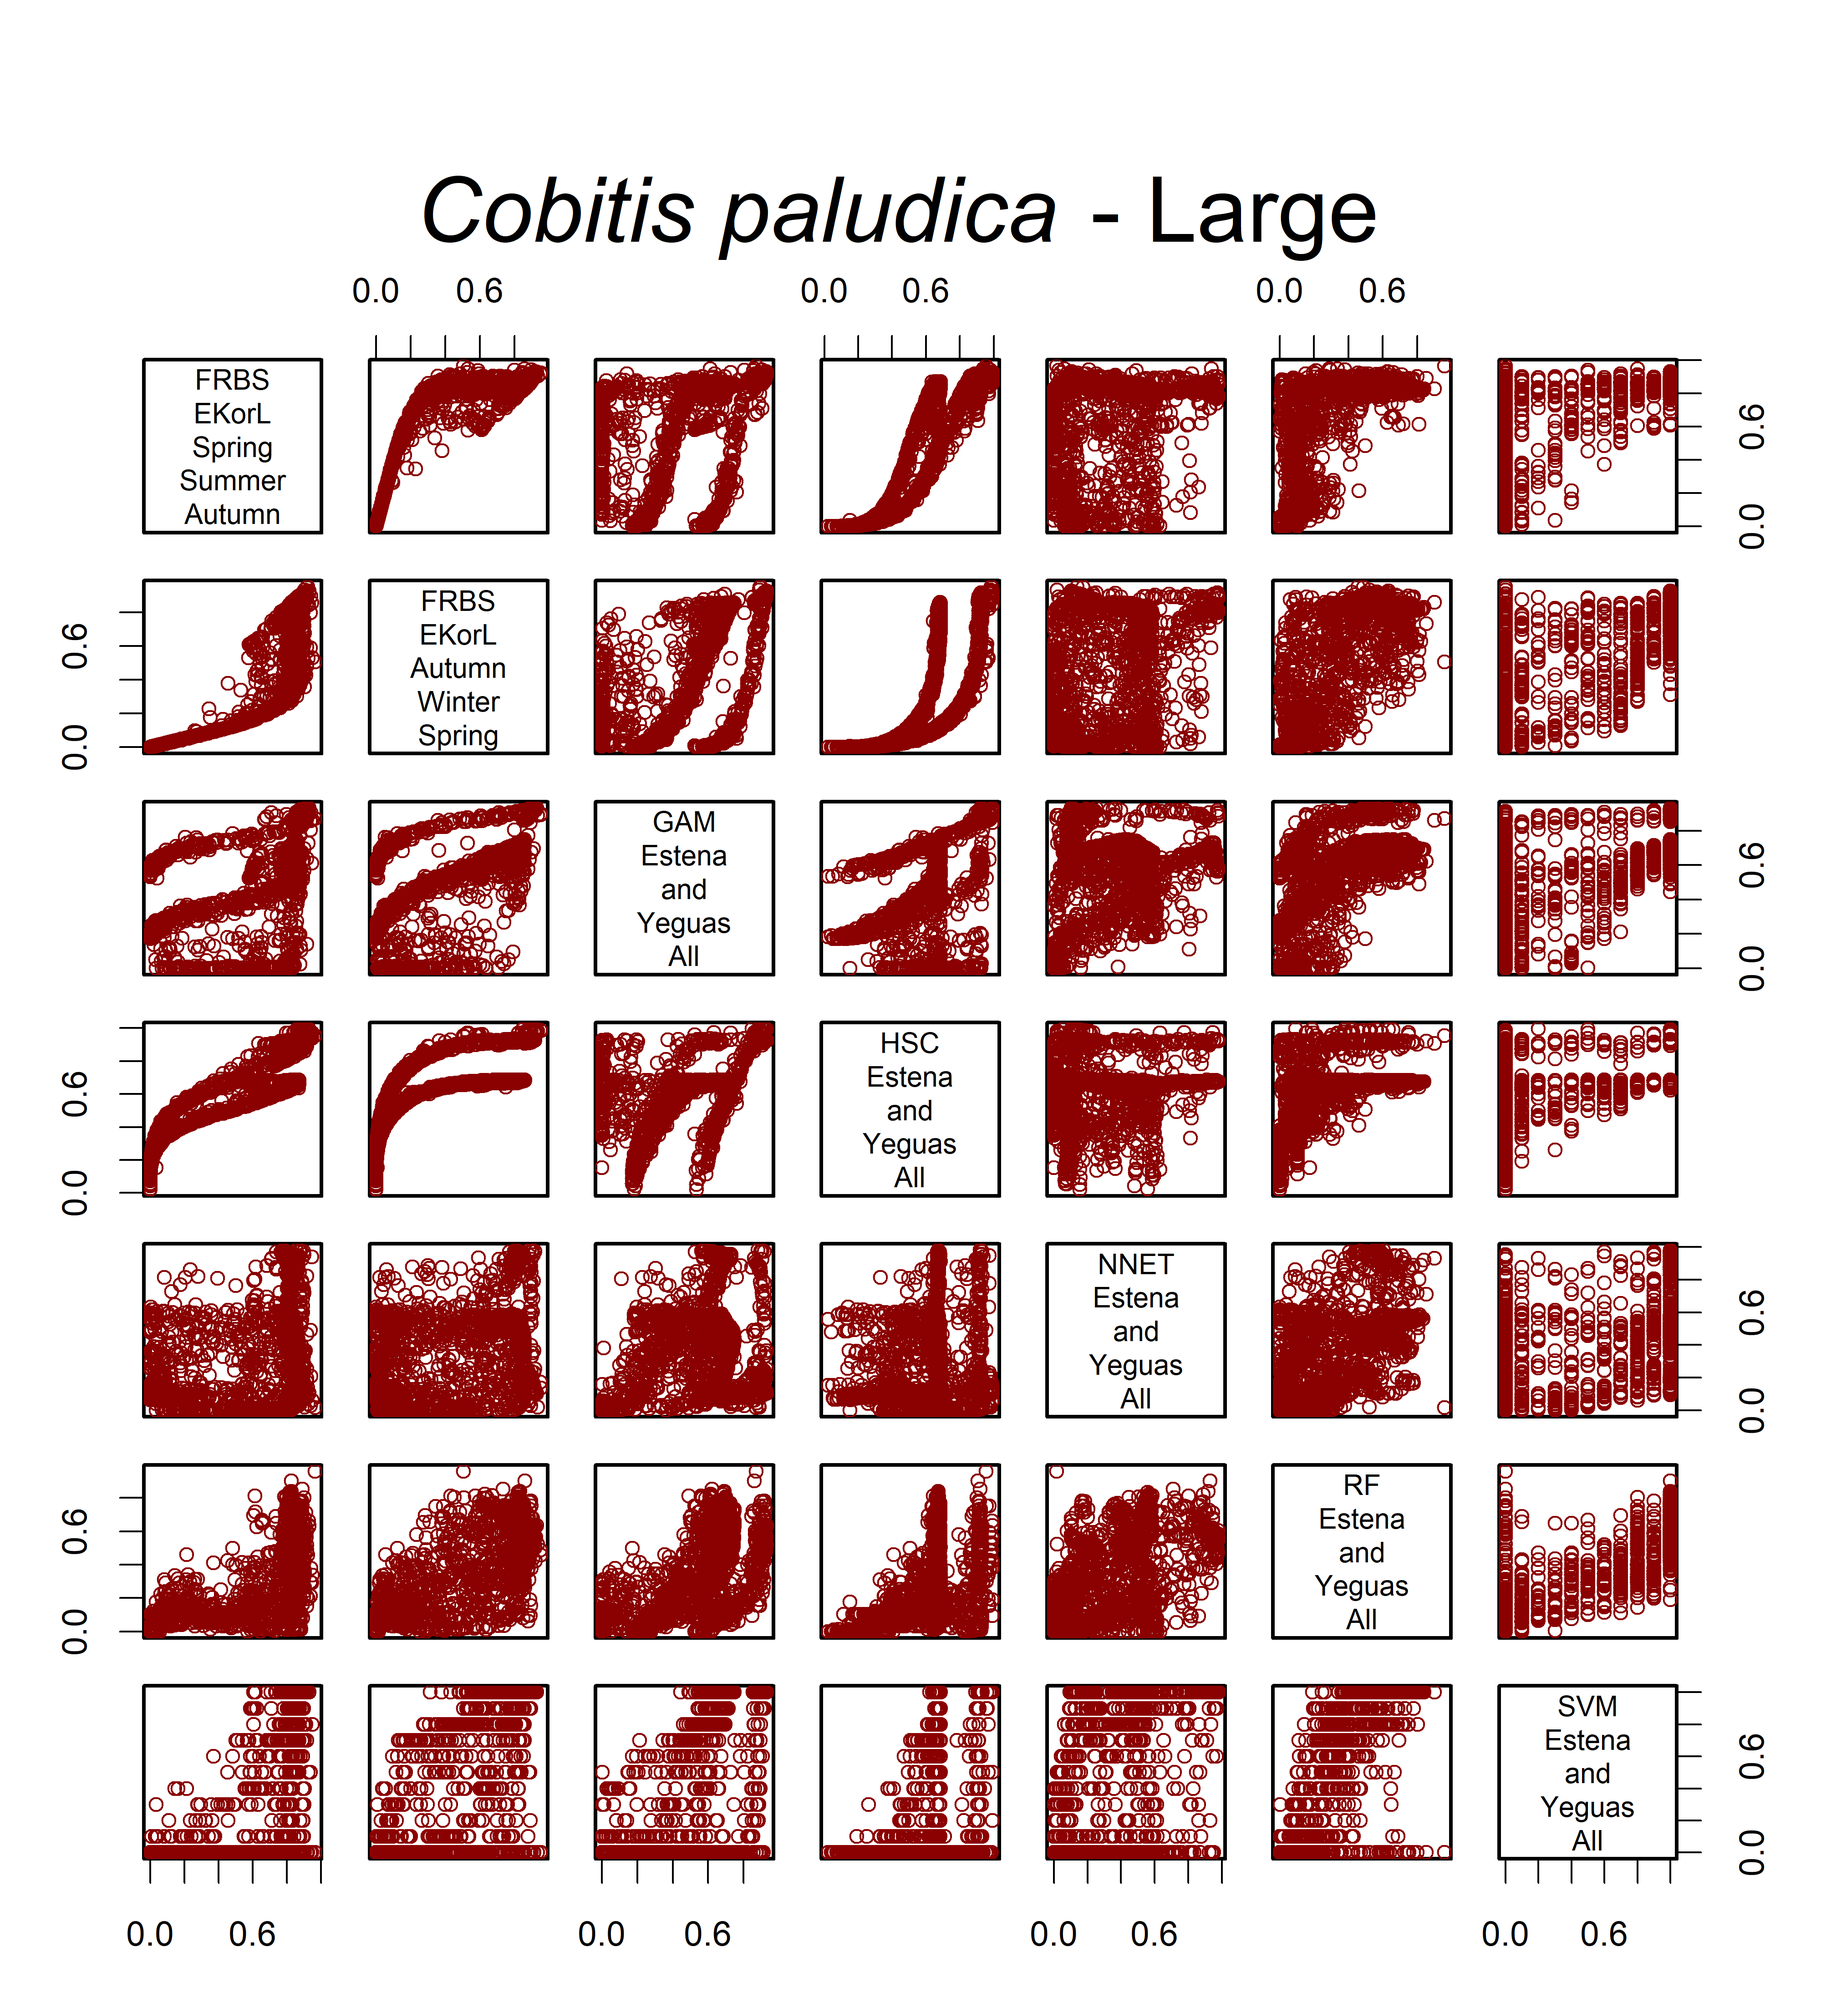
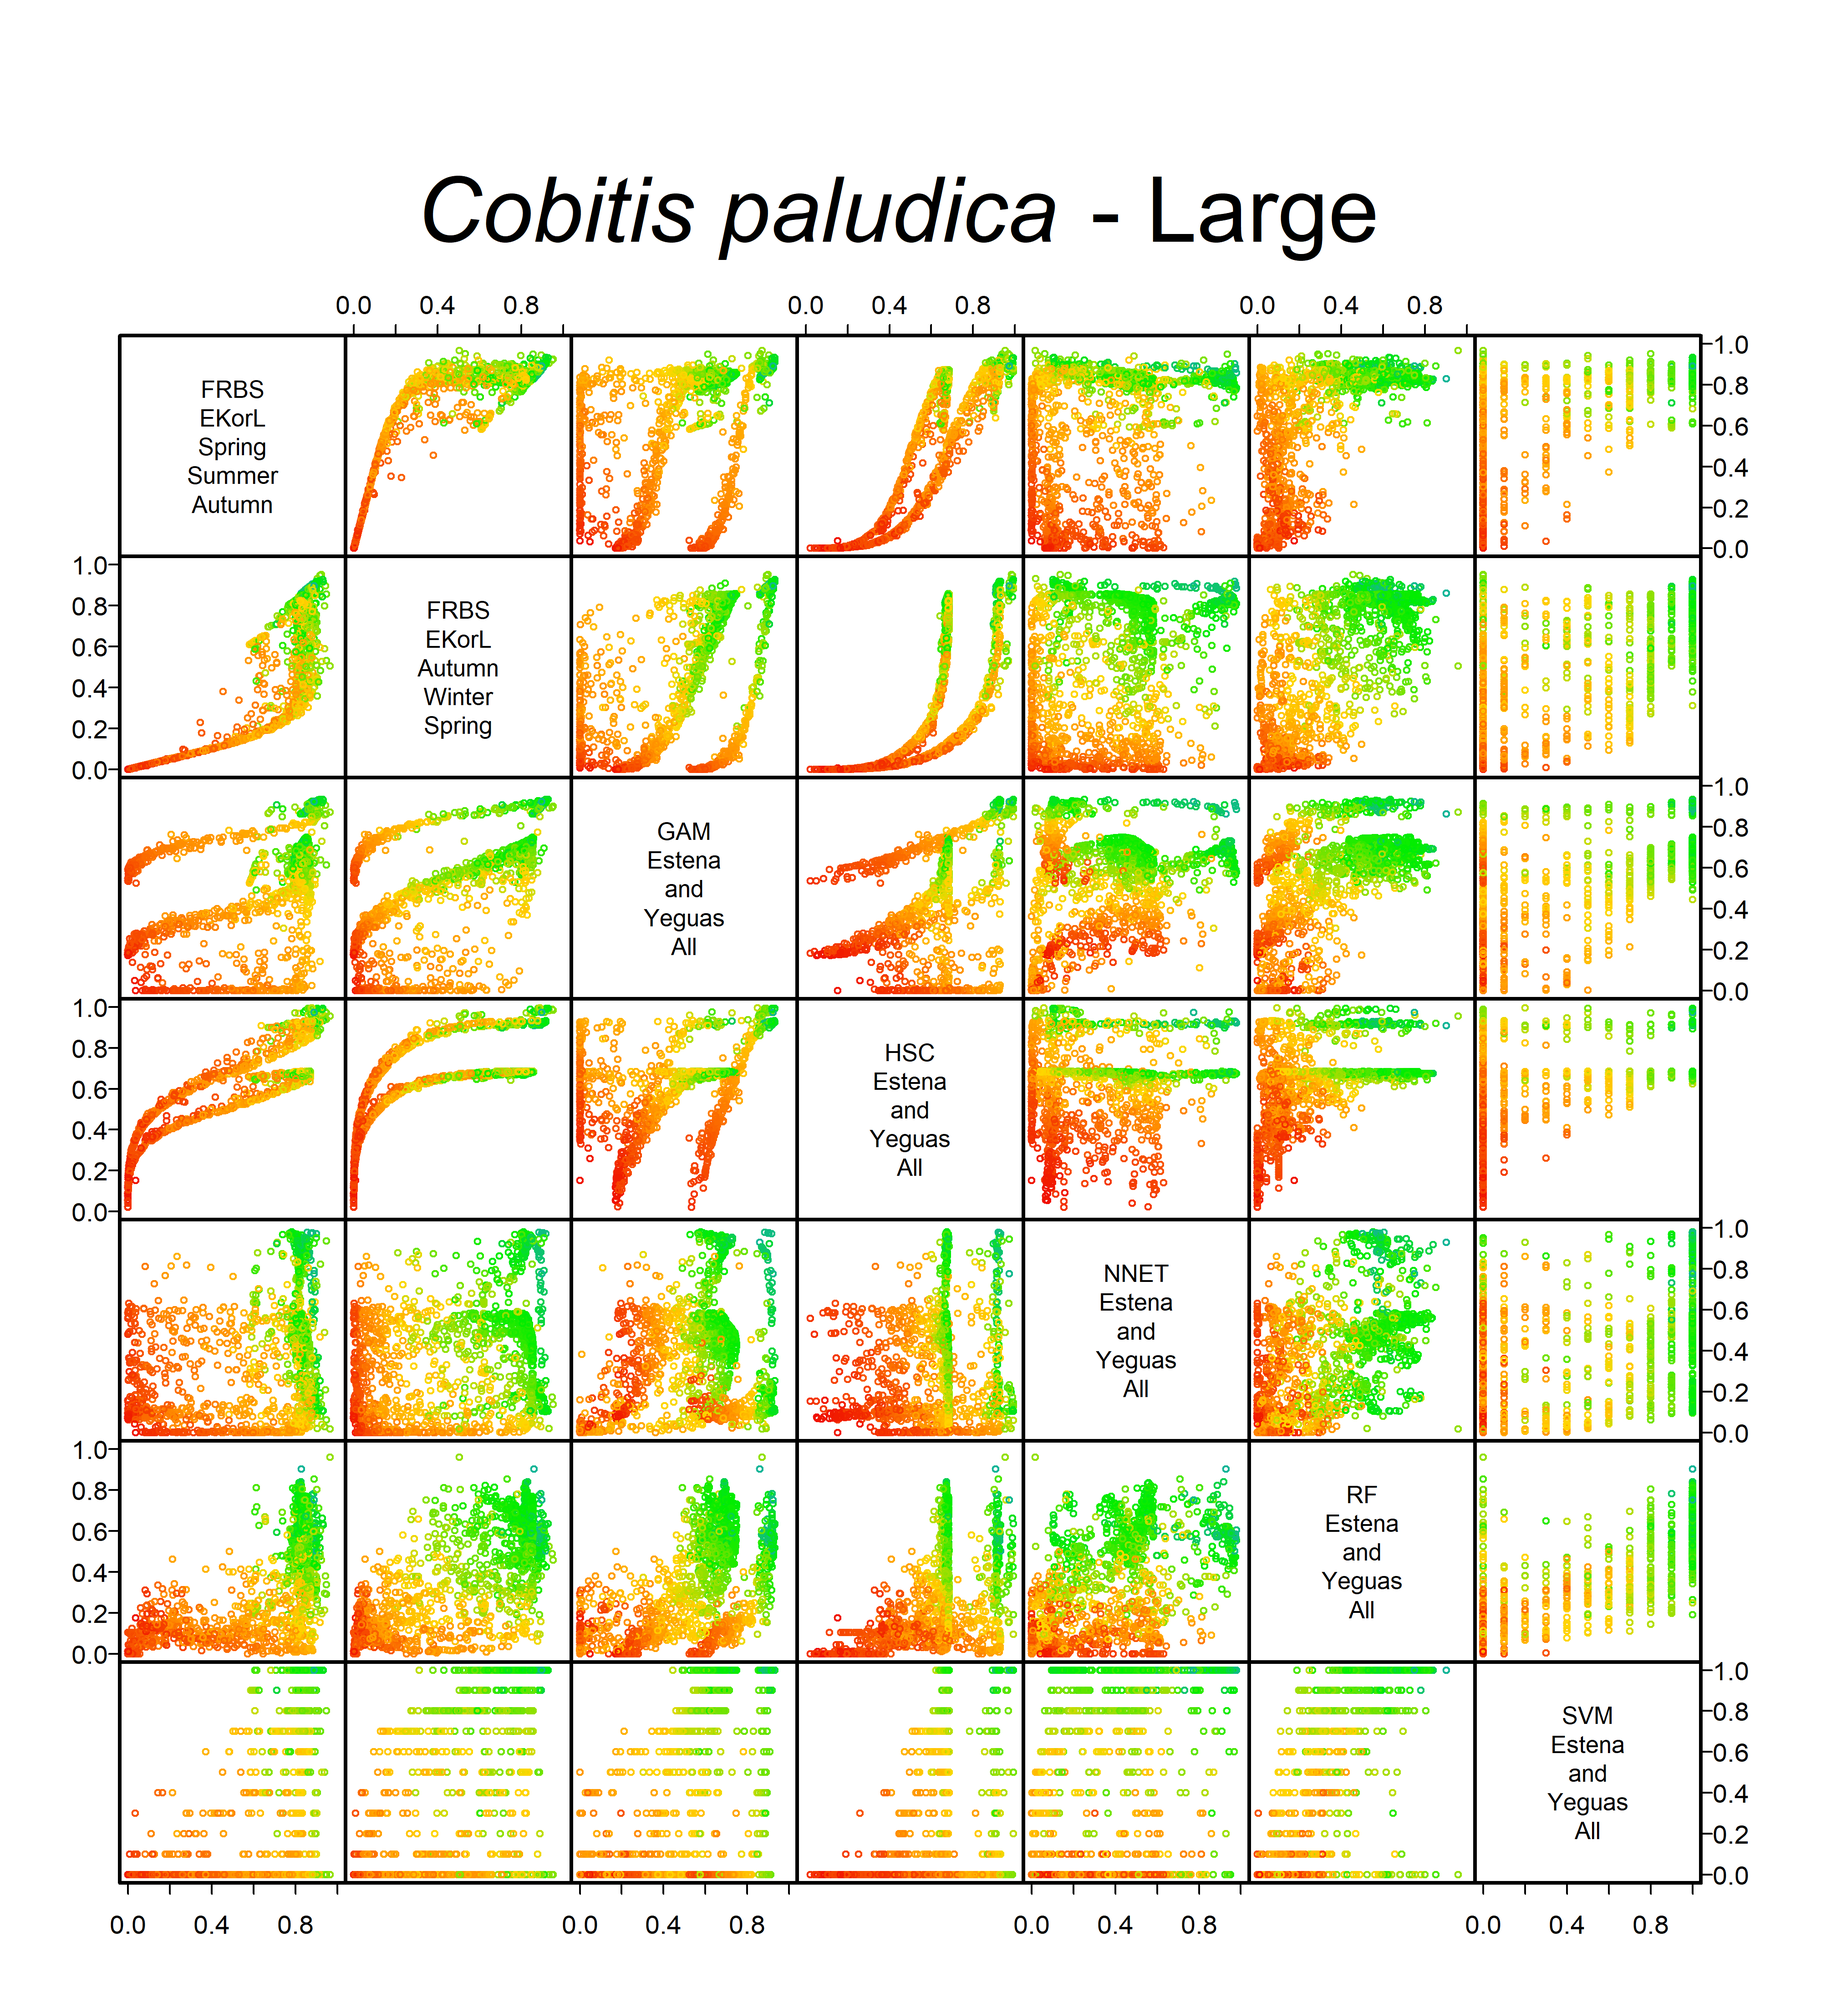
Readme

diff --git a/README.md b/README.md
@@ -1033,7 +1033,7 @@ summary(Predictions)
 
 ``` r
 
-pairs(Predictions, col = "red4", oma = c(2.5, 2.5, 7, 2.5), cex.labels = 0.7, lwd = 0.5, cex = 0.75, cex.axis = 0.85)
+pairs(Predictions, col = Colors.pair.plot, oma = c(2.5, 2.5, 7, 2.5), cex.labels = 0.6, lwd = 0.5, cex = 0.35, cex.axis = 0.65, mgp = c(0,0.25,0), gap = 0 , tck = -0.05, xlim = c(0, 1), ylim = c(0, 1), las = 1)
 
 title(substitute(expr = paste(italic(Species), Size, sep =" "), env = list(Species = Species, Size = Size)), outer = T, line = -3, adj = 0.5, cex.main = 1.5)
 ```
@@ -1044,13 +1044,14 @@ title(substitute(expr = paste(italic(Species), Size, sep =" "), env = list(Speci
 *Cobitis paludica* small employing the default available models. The
 comparison includes, Fuzzy Rule-Based Systems (FRBSs) obtained from
 expert-knowledge and literature (EKorL) and valid during Summer (warm
-period) and Winter (cold period). I addition, it also includes
-Generalised Additive Model (GAM), Habitat Suitability Curves (HSCs),
-Artificial Neural Network (NNET), Random forests (RF) and Support Vector
-Machine (SVM). All these models were developed pooling data from the
-Estena (Guadiana) and Yeguas (Guadalquivir) rivers. Currently, these
-models are valid for every season (*All*). The names and main
-characteristics of the models appear in the diagonal of the figure.
+period) and Winter (cold period). In addition, it also the results
+obtained with the Generalised Additive Model (GAM), Habitat Suitability
+Curves (HSCs), Artificial Neural Network (NNET), Random forests (RF) and
+Support Vector Machine (SVM). All these models were developed pooling
+data from the Estena (Guadiana) and Yeguas (Guadalquivir) rivers.
+Currently, these models are valid for every season (*All*). The names
+and main characteristics of the models appear in the diagonal of the
+figure.
 
 <br/>
 
